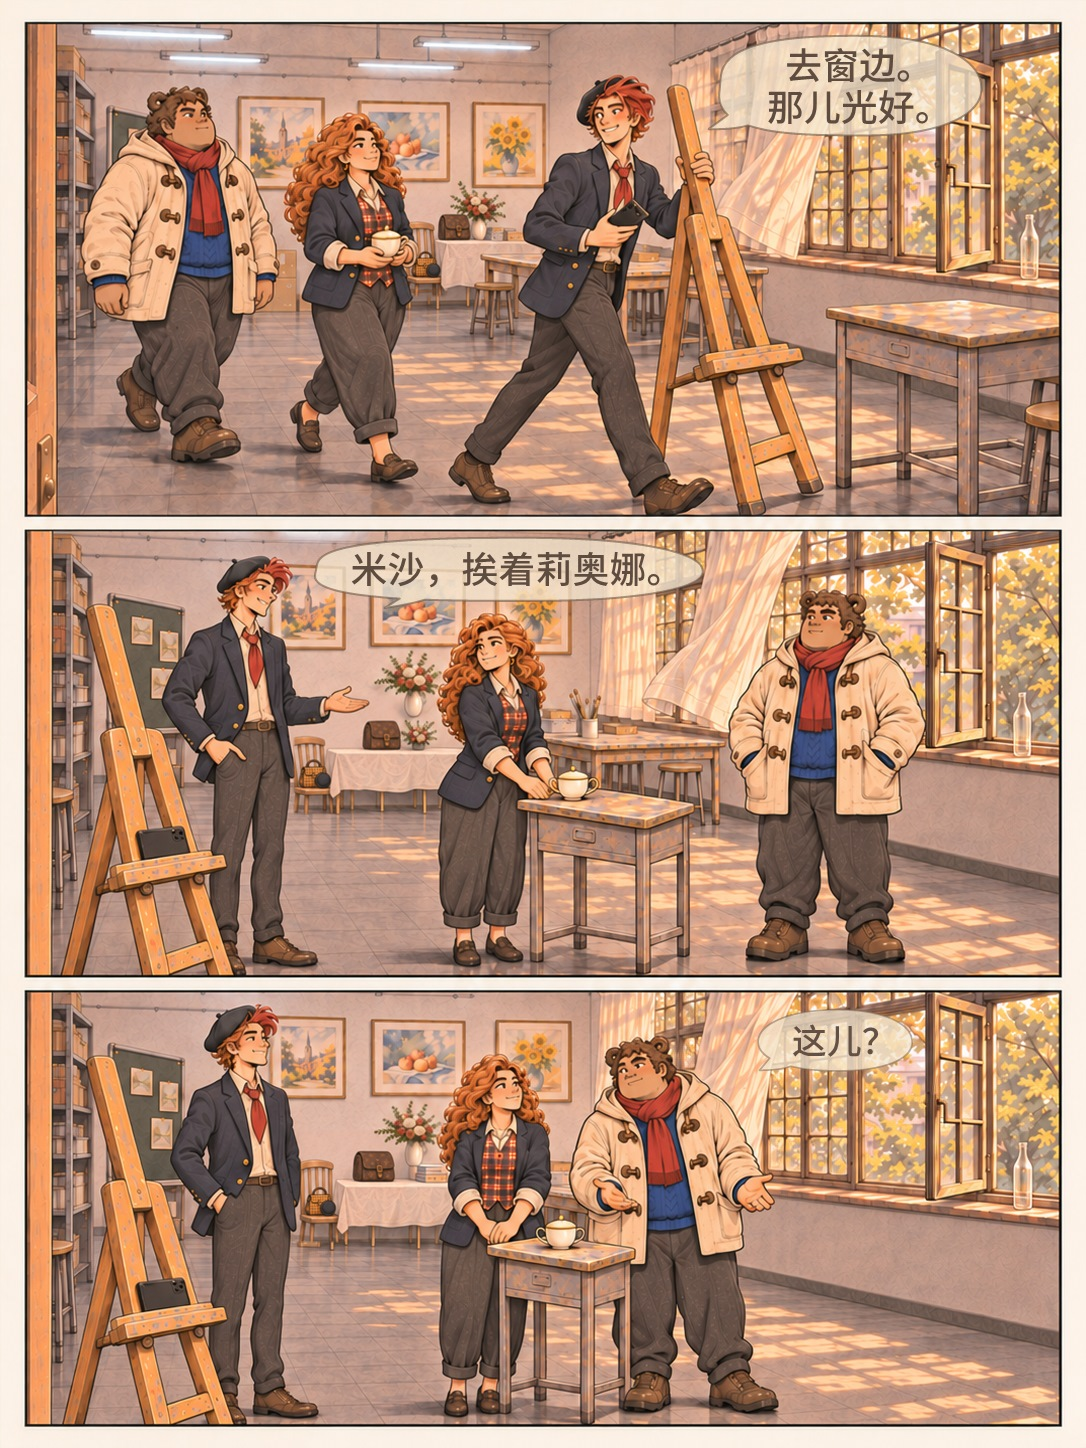
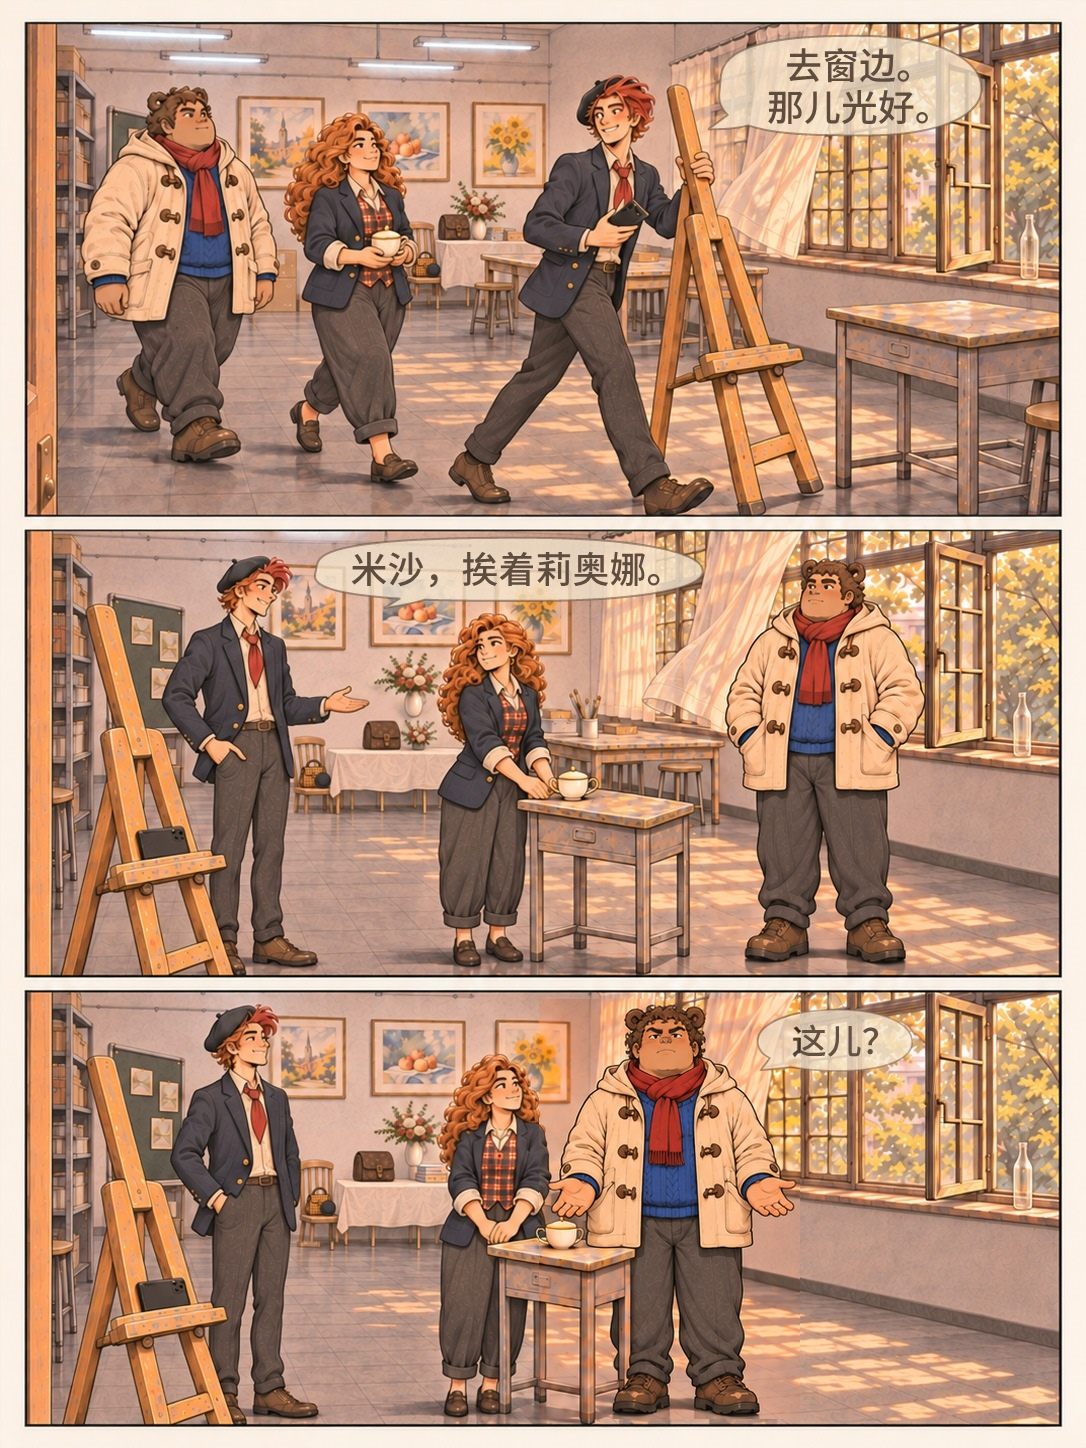
Release homepage v0.24.46
Synchronize SAU P6 page 03 with the verified v11 publication artwork.

Changed region(s): [[0.4862, 0.6837, 0.7597, 0.9945], [0.6685, 0.3729, 0.8812, 0.6526]]

diff --git a/README.md b/README.md
@@ -9,7 +9,7 @@
 
 ## Repository
 
-This repository contains the published static site. The current snapshot is v0.24.45. Vercel serves the live site, and GitHub Pages redirects the original `imxiaowho.github.io` URLs to the corresponding paths on `imxiaowho.org`.
+This repository contains the published static site. The current snapshot is v0.24.46. Vercel serves the live site, and GitHub Pages redirects the original `imxiaowho.github.io` URLs to the corresponding paths on `imxiaowho.org`.
 
 For a local static preview, run this command from the repository root.
 
